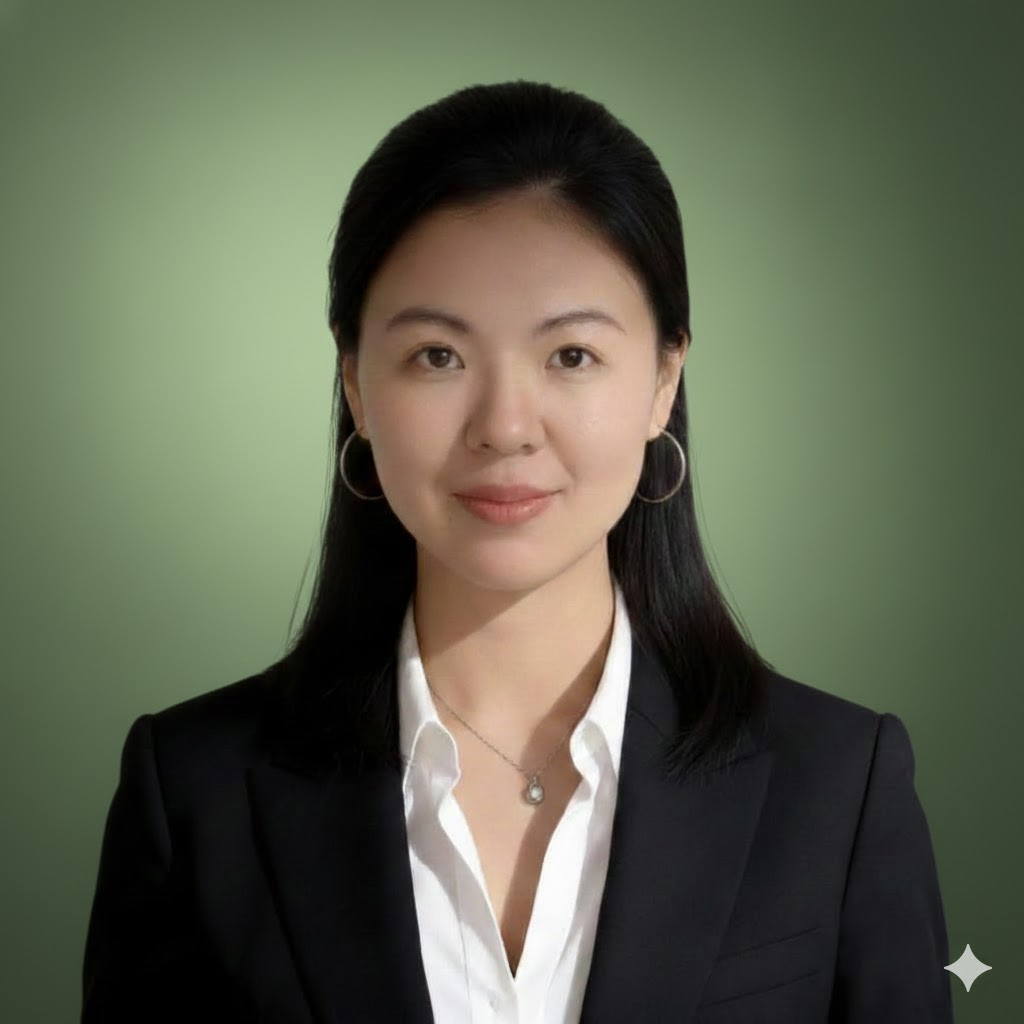
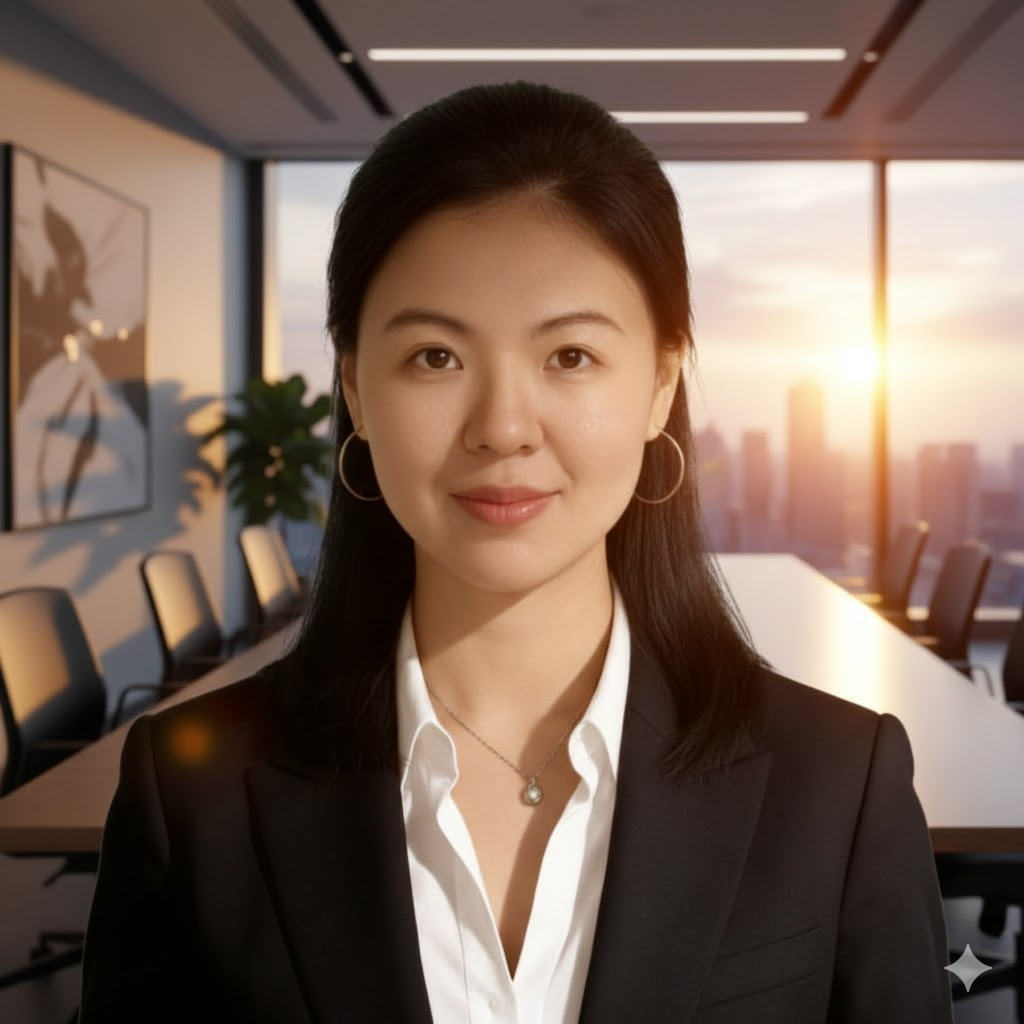
feat: replace images for news, governance, and cleanup unused assets

diff --git a/src/data/newsData.ts b/src/data/newsData.ts
@@ -21,7 +21,7 @@ export interface NewsTranslation {
 export const newsData: NewsItem[] = [
   {
     id: "soja-recorde-china-2026",
-    image: "/images/news/soja-recorde.png",
+    image: "/images/news/soja-recorde.jpg",
     date: "20 Jan, 2026",
     sourceUrl: "https://forbes.com.br/forbesagro/2026/01/brasil-detem-736-do-mercado-de-soja-na-china-em-ano-de-recorde-historico/",
     translations: {
@@ -109,7 +109,7 @@ export const newsData: NewsItem[] = [
   },
   {
     id: "agrishow-2026-ingressos",
-    image: "/images/news/agrishow-2026.png",
+    image: "/images/news/agrishow-2026.jpg",
     date: "20 Jan, 2026",
     sourceUrl: "https://visaoagro.com.br/agrishow-inicia-venda-de-ingressos-para-a-edicao-de-2026/",
     translations: {
@@ -153,7 +153,7 @@ export const newsData: NewsItem[] = [
   },
   {
     id: "safra-soja-25-26-avanco",
-    image: "/images/news/safra-soja.png",
+    image: "/images/news/safra-soja.jpg",
     date: "12 Jan, 2026",
     sourceUrl: "https://www.agrolink.com.br/noticias/safra-de-soja-2025-26-caminha-para-novo-recorde_509616.html",
     translations: {
@@ -197,7 +197,7 @@ export const newsData: NewsItem[] = [
   },
   {
     id: "usda-wasde-jan-2026",
-    image: "/images/news/usda-soybean.png",
+    image: "/images/news/usda-soybean.jpg",
     date: "10 Jan, 2026",
     sourceUrl: "https://br.tradingview.com/news/barchart:1e408174f094b:0-soybeans-fall-on-monday-as-usda-raises-carryout/",
     translations: {
@@ -241,7 +241,7 @@ export const newsData: NewsItem[] = [
   },
   {
     id: "china-eua-soja-2026",
-    image: "/images/news/us-china-trade.png",
+    image: "/images/news/us-china-trade.jpg",
     date: "19 Jan, 2026",
     sourceUrl: "https://exame.com/agro/eua-diz-que-china-vai-comprar-25-milhoes-de-toneladas-de-soja-em-2026/",
     translations: {
@@ -285,7 +285,7 @@ export const newsData: NewsItem[] = [
   },
   {
     id: "gacc-china-importacao-carne-2026",
-    image: "/images/news/gacc-meat.png",
+    image: "/images/news/gacc-meat.jpg",
     date: "13 Jan, 2026",
     sourceUrl: "https://valorinternational.globo.com/business/news/2026/01/13/meatpackers-may-curb-output-after-china-sets-import-quota.ghtml",
     translations: {
@@ -329,7 +329,7 @@ export const newsData: NewsItem[] = [
   },
   {
     id: "john-deere-autonomo-2026",
-    image: "/images/news/john-deere-autonomous.png",
+    image: "/images/news/john-deere-autonomous.jpg",
     date: "07 Jan, 2026",
     sourceUrl: "https://www.dtnpf.com/agriculture/web/ag/equipment/article/2026/01/07/deere-displays-technology-loaded-x9",
     translations: {

diff --git a/src/pages/Chamber.tsx b/src/pages/Chamber.tsx
@@ -1,11 +1,12 @@
 import { useTranslation } from 'react-i18next';
 import { Globe, Scale, Users, Award } from 'lucide-react';
 
-import elberImg from '../assets/team/elber_guimaraes_v2.png';
+import elberImg from '../assets/team/elber_guimaraes.jpg';
 import fernandoImg from '../assets/team/fernando_santos.png';
-import raquelImg from '../assets/team/raquel_lacerda.png';
+import raquelImg from '../assets/team/raquel_lacerda.jpg';
 import ueltonImg from '../assets/team/uelton_lacerda.png';
 import liaImg from '../assets/team/lia_tian.png';
+import ricardoImg from '../assets/team/ricardo_profile.png';
 
 const Chamber = () => {
     const { t } = useTranslation();
@@ -144,7 +145,7 @@ const Chamber = () => {
                                 name: "Rafael Varela",
                                 role: t('chamber.governance.roles.executive_member'),
                                 desc: t('chamber.governance.descs.executive_member'),
-                                image: "/images/team_member_new.png"
+                                image: ricardoImg
                             }
                         ].map((member, index) => (
                             <div key={index} className="group w-full md:w-[calc(50%-1rem)] lg:w-[calc(33.333%-1.34rem)]">

diff --git a/src/components/InstitutionalSplit.tsx b/src/components/InstitutionalSplit.tsx
@@ -10,7 +10,7 @@ const InstitutionalSplit = () => {
                 {/* Image Side */}
                 <div className="h-[500px] lg:h-auto relative overflow-hidden">
                     <img
-                        src="/about-cctaal.png"
+                        src="/about-cctaal.jpg"
                         alt="Technology in Port"
                         className="absolute inset-0 w-full h-full object-cover"
                     />
